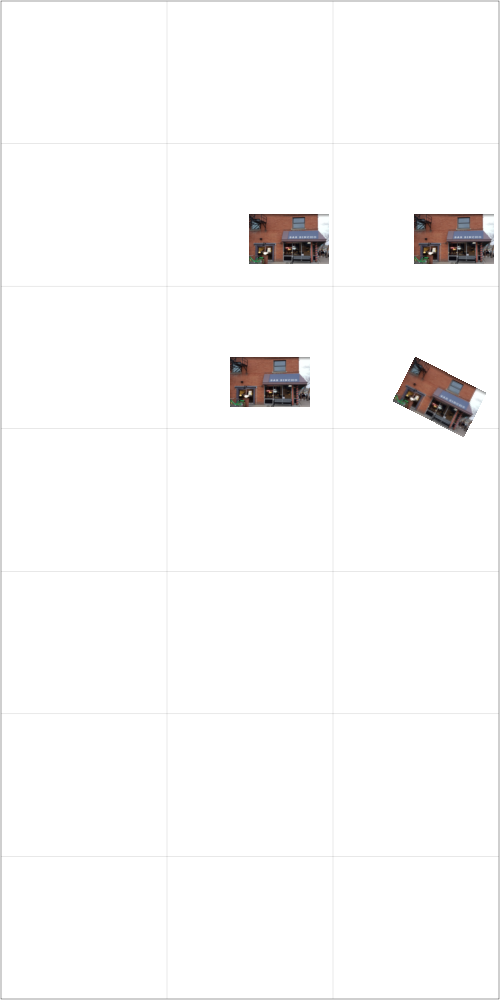
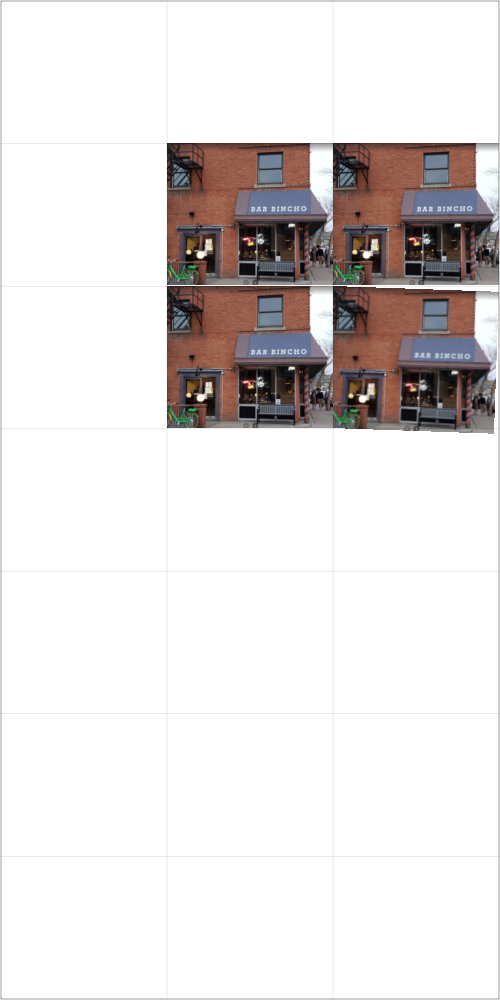
Fix image position size

Changed region(s): [[0.33, 0.124, 1.0, 0.434]]

diff --git a/gridder.go b/gridder.go
@@ -7,7 +7,6 @@ import (
 	"io"
 	"log"
 	"os"
-
 	"github.com/fogleman/gg"
 	"golang.org/x/image/font"
   "github.com/anthonynsimon/bild/transform"
@@ -199,20 +198,20 @@ func (g *Gridder) DrawImage(row int, column int, ImageConfigs ...ImageConfig1) e
 
 	m := ImageLayout{imgData}
 
-	result := transform.Resize(m.Image, 80, 50, transform.Linear)
+  cellWidth, cellHeight := g.getCellDimensions() 
+	result := transform.Resize(m.Image, int(cellWidth), int(cellHeight), transform.Linear)
 	// fmt.Printf("%s", x)
 
-	center := g.getCellCenter(row, column)
-	length := ImageConfig.GetLength()
+	center := g.getCellPoint(row, column)
+	// length := ImageConfig.GetLength()
 
-	x1 := int(center.X - length/2)
+	x1 := int(center.X)
 	y := int(center.Y)
 
 	g.ctx.Push()
 
 	g.ctx.RotateAbout(gg.Radians(ImageConfig.GetRotate()), center.X, center.Y)
 	g.ctx.DrawImage(result , x1, y)
-	// g.ctx.DrawImage(m.Image, x1, y)
 	g.ctx.SetLineWidth(ImageConfig.GetStrokeWidth())
 	g.ctx.SetColor(ImageConfig.GetColor())
 	g.ctx.Stroke()
@@ -362,6 +361,17 @@ func (g *Gridder) getCellCenter(row, column int) *gg.Point {
 
 	x := float64(column)*(gridWidth/columns) + cellWidth/2
 	y := float64(row)*(gridHeight/rows) + cellHeight/2
+	return &gg.Point{X: x, Y: y}
+}
+
+func (g *Gridder) getCellPoint(row, column int) *gg.Point {
+	columns := float64(g.gridConfig.GetColumns())
+	rows := float64(g.gridConfig.GetRows())
+
+	gridWidth, gridHeight := g.getGridDimensions()
+
+	x := float64(column)*(gridWidth/columns) 
+	y := float64(row)*(gridHeight/rows) 
 	return &gg.Point{X: x, Y: y}
 }
 

diff --git a/examples/example6/example6.go b/examples/example6/example6.go
@@ -27,7 +27,7 @@ func main() {
 	}
 
 	grid.DrawImage(1, 1, gridder.ImageConfig1{Length: 1, Color: color.Black, File: "./bincho.png"})
-	grid.DrawImage(2, 2, gridder.ImageConfig1{Length: 2, Color: color.Black, File: "./bincho.png", Rotate: 27})
+	grid.DrawImage(2, 2, gridder.ImageConfig1{Length: 2, Color: color.Black, File: "./bincho.png", Rotate: 2})
 	grid.DrawImage(1, 2, gridder.ImageConfig1{Length: 3, Color: color.Black, File: "./bincho.png"})
 	grid.DrawImage(2, 1, gridder.ImageConfig1{Length: 40, Color: color.Black, File: "./bincho.png"})
 	grid.SavePNG()
